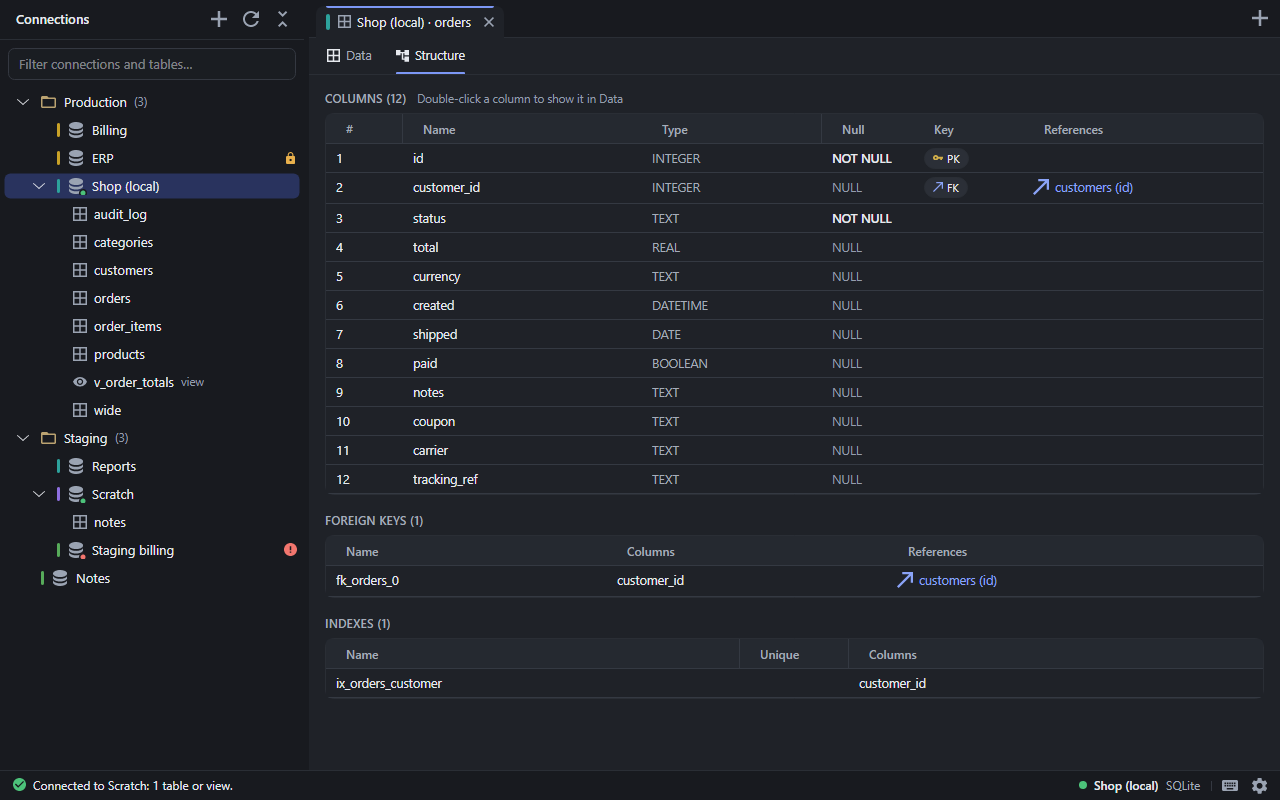
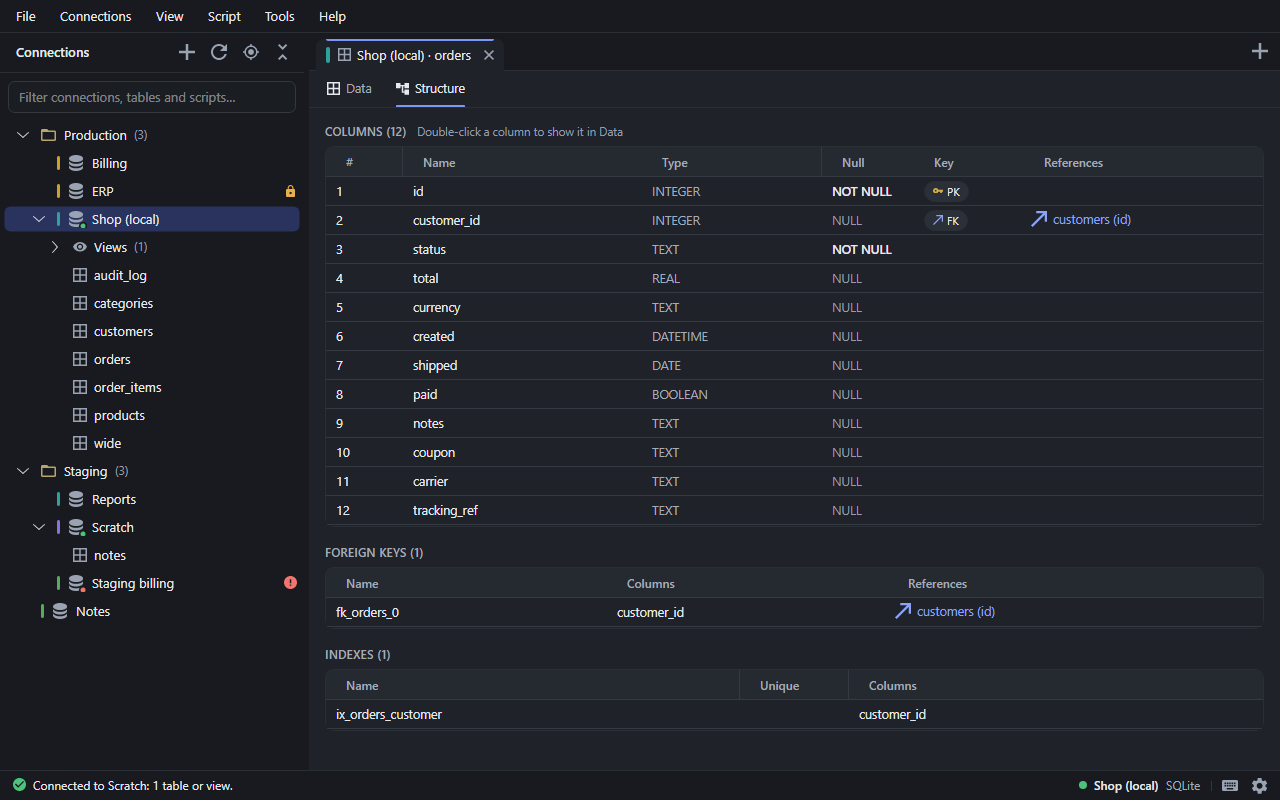
fix(structure): let each section of the Structure sub-tab scroll its own rows
Columns, foreign keys and indexes share the height, so no row is unreachable
on wide tables. A double click on a scroll bar or header no longer leaves the tab.

Claude-Session: https://claude.ai/code/session_01U9RH8tUaHeSWKXiegLs6DV

diff --git a/tests/DbExplorer.App.Tests/StructureScrollTests.cs b/tests/DbExplorer.App.Tests/StructureScrollTests.cs
@@ -1,0 +1,164 @@
+using Avalonia;
+using Avalonia.Controls;
+using Avalonia.Controls.Primitives;
+using Avalonia.Headless;
+using Avalonia.Headless.XUnit;
+using Avalonia.Input;
+using Avalonia.Layout;
+using Avalonia.Threading;
+using Avalonia.VisualTree;
+using DbExplorer.App.ViewModels;
+using DbExplorer.App.Views;
+using Microsoft.Data.Sqlite;
+
+namespace DbExplorer.App.Tests;
+
+/// <summary>The Structure sub-tab with hundreds of columns, foreign keys and indexes: every row reachable, no jump.</summary>
+public class StructureScrollTests : IDisposable
+{
+    private readonly TableTabFixture _t = new();
+    public void Dispose() => _t.Dispose();
+
+    private static async Task Pump(int rounds = 20)
+    {
+        for (var i = 0; i < rounds; i++)
+        {
+            Dispatcher.UIThread.RunJobs();
+            AvaloniaHeadlessPlatform.ForceRenderTimerTick();
+            await Task.Delay(15);
+        }
+    }
+
+    private async Task<(TableTabViewModel Tab, TabControl Tabs, Window Window, List<DataGrid> Grids, ScrollViewer Scroll)> Show(
+        int columns, int foreignKeys = 0, int indexes = 0, double height = 700)
+    {
+        var parts = Enumerable.Range(1, columns).Select(i => $"c{i} INTEGER" + (i <= foreignKeys ? " REFERENCES customers(id)" : ""));
+        var sql = $"CREATE TABLE wide ({string.Join(", ", parts)});"
+                  + string.Concat(Enumerable.Range(1, indexes).Select(i => $"CREATE INDEX ix_{i:000} ON wide(c{i});"));
+        using (var c = new SqliteConnection($"Data Source={_t.DbFile};Pooling=False"))
+        {
+            c.Open();
+            using var cmd = c.CreateCommand();
+            cmd.CommandText = sql;
+            cmd.ExecuteNonQuery();
+        }
+        var tab = await _t.OpenTab("wide");
+        var view = new TableTabView { DataContext = tab };
+        var window = new Window { Content = view, Width = 1000, Height = height };
+        window.Show();
+        var tabs = view.FindControl<TabControl>("SubTabs")!;
+        tabs.SelectedIndex = 1;
+        await Pump();
+        var grids = view.GetVisualDescendants().OfType<DataGrid>().Where(g => g.Classes.Contains("structure")).ToList();
+        return (tab, tabs, window, grids, view.FindControl<ScrollViewer>("StructureScroll")!);
+    }
+
+    // Rows actually on screen: recycled rows stay in the tree, hidden or outside the rows area.
+    private static List<T> OnScreen<T>(DataGrid grid)
+    {
+        var area = grid.GetVisualDescendants().OfType<DataGridRowsPresenter>().Single();
+        return grid.GetVisualDescendants().OfType<DataGridRow>()
+            .Where(r => r.IsVisible && r.Bounds.Bottom > 1 && r.Bounds.Top < area.Bounds.Height - 1)
+            .OrderBy(r => r.Bounds.Top).Select(r => (T)r.DataContext!).ToList();
+    }
+
+    private static async Task<List<T>> WheelToEnd<T>(Window window, DataGrid grid, int count)
+    {
+        var point = grid.TranslatePoint(new Point(200, grid.Bounds.Height / 2), window)!.Value;
+        var seen = new List<T>(OnScreen<T>(grid));
+        var previousTop = seen[0];
+        var all = seen.Distinct().ToList();
+        for (var i = 0; i < count; i++)
+        {
+            window.MouseWheel(point, new Vector(0, -1));
+            await Pump(2);
+            var now = OnScreen<T>(grid);
+            // No jump: what is on top after one notch was already on screen before it.
+            Assert.Contains(now[0], seen);
+            seen = now;
+            all.AddRange(now.Except(all));
+            if (all.Count == count) break;
+        }
+        return all;
+    }
+
+    [AvaloniaFact]
+    public async Task ManyColumns_TheWheelReachesEveryRow_WithoutJumping()
+    {
+        var (_, _, window, grids, scroll) = await Show(columns: 320);
+        var columns = grids[0];
+
+        Assert.True(columns.Bounds.Height < scroll.Viewport.Height, $"grid {columns.Bounds.Height}, viewport {scroll.Viewport.Height}");
+        Assert.Equal("c1", OnScreen<StructureColumn>(columns)[0].Name);
+        // The page itself does not scroll: the other sections stay on screen.
+        Assert.True(scroll.Extent.Height <= scroll.Viewport.Height + 1, $"extent {scroll.Extent.Height}, viewport {scroll.Viewport.Height}");
+
+        var seen = await WheelToEnd<StructureColumn>(window, columns, 320);
+
+        Assert.Equal(Enumerable.Range(1, 320).Select(i => $"c{i}"), seen.Select(c => c.Name));
+        window.Close();
+    }
+
+    [AvaloniaFact]
+    public async Task ManyForeignKeysAndIndexes_EachSectionScrollsItsOwnRows()
+    {
+        var (_, _, window, grids, scroll) = await Show(columns: 120, foreignKeys: 80, indexes: 90);
+
+        Assert.Equal(3, grids.Count);
+        Assert.True(scroll.Extent.Height <= scroll.Viewport.Height + 1);
+        Assert.All(grids, g => Assert.InRange(g.Bounds.Height, 80, scroll.Viewport.Height / 2));
+        Assert.Equal(80, (await WheelToEnd<StructureForeignKey>(window, grids[1], 80)).Count);
+        Assert.Equal(90, (await WheelToEnd<StructureIndex>(window, grids[2], 90)).Count);
+        window.Close();
+    }
+
+    [AvaloniaFact]
+    public async Task FewRows_TheGridsTakeOnlyWhatTheyNeed_AndTheColumnsGetTheRest()
+    {
+        var (_, _, window, grids, _) = await Show(columns: 200, foreignKeys: 1, indexes: 2);
+
+        Assert.InRange(grids[1].Bounds.Height, 40, 90);
+        Assert.InRange(grids[2].Bounds.Height, 60, 120);
+        Assert.True(grids[0].Bounds.Height > 300, $"grids {string.Join(" / ", grids.Select(g => g.Bounds.Height))}");
+        Assert.Equal(2, OnScreen<StructureIndex>(grids[2]).Count);
+        window.Close();
+    }
+
+    [AvaloniaFact]
+    public async Task ShortWindow_SectionsKeepAMinimumHeight_AndThePageScrolls()
+    {
+        var (_, _, window, grids, scroll) = await Show(columns: 50, foreignKeys: 20, indexes: 20, height: 320);
+
+        Assert.All(grids, g => Assert.True(g.Bounds.Height >= 80, $"grid {g.Bounds.Height}"));
+        Assert.True(scroll.Extent.Height > scroll.Viewport.Height);
+        window.Close();
+    }
+
+    [AvaloniaFact]
+    public async Task DoubleClick_JumpsToData_OnARowOnly()
+    {
+        var (_, tabs, window, grids, _) = await Show(columns: 100);
+        var grid = grids[0];
+        grid.SelectedIndex = 0;
+
+        void DoubleClick(Visual target)
+        {
+            var point = target.TranslatePoint(new Point(target.Bounds.Width / 2, target.Bounds.Height / 2), window)!.Value;
+            for (var i = 0; i < 2; i++)
+            {
+                window.MouseDown(point, MouseButton.Left);
+                window.MouseUp(point, MouseButton.Left);
+            }
+        }
+
+        DoubleClick(grid.GetVisualDescendants().OfType<ScrollBar>().Single(b => b.Orientation == Orientation.Vertical && b.IsVisible));
+        await Pump();
+        Assert.Equal(1, tabs.SelectedIndex);
+
+        DoubleClick(grid.GetVisualDescendants().OfType<DataGridRow>()
+            .Where(r => r.IsVisible && r.Bounds.Top >= 0).OrderBy(r => r.Bounds.Top).First());
+        await Pump();
+        Assert.Equal(0, tabs.SelectedIndex);
+        window.Close();
+    }
+}

diff --git a/src/DbExplorer.App/Views/SharedHeightPanel.cs b/src/DbExplorer.App/Views/SharedHeightPanel.cs
@@ -1,0 +1,79 @@
+using Avalonia;
+using Avalonia.Controls;
+
+namespace DbExplorer.App.Views;
+
+/// <summary>
+/// Stacks sections inside a given height: a section that needs less than its share gets what it asks for, the others share
+/// the rest. Each child is measured with a finite height, so a data grid in it scrolls and virtualizes its own rows. A plain
+/// StackPanel measures with an infinite height, which a DataGrid cannot work with: rows become unreachable and the scroll jumps.
+/// </summary>
+public sealed class SharedHeightPanel : Panel
+{
+    public static readonly StyledProperty<double> FitHeightProperty =
+        AvaloniaProperty.Register<SharedHeightPanel, double>(nameof(FitHeight));
+
+    public static readonly StyledProperty<double> MinShareProperty =
+        AvaloniaProperty.Register<SharedHeightPanel, double>(nameof(MinShare), 130);
+
+    public static readonly StyledProperty<double> SpacingProperty =
+        AvaloniaProperty.Register<SharedHeightPanel, double>(nameof(Spacing));
+
+    static SharedHeightPanel() => AffectsMeasure<SharedHeightPanel>(FitHeightProperty, MinShareProperty, SpacingProperty);
+
+    /// <summary>The height to share, usually the viewport of the surrounding ScrollViewer (which offers an infinite one).</summary>
+    public double FitHeight { get => GetValue(FitHeightProperty); set => SetValue(FitHeightProperty, value); }
+
+    /// <summary>No section is squeezed below this: in a very short window the panel grows and the ScrollViewer around it scrolls.</summary>
+    public double MinShare { get => GetValue(MinShareProperty); set => SetValue(MinShareProperty, value); }
+
+    public double Spacing { get => GetValue(SpacingProperty); set => SetValue(SpacingProperty, value); }
+
+    private readonly Dictionary<Control, double> _heights = [];
+
+    protected override Size MeasureOverride(Size availableSize)
+    {
+        _heights.Clear();
+        var shown = Children.Where(c => c.IsVisible).ToList();
+        if (shown.Count == 0) return default;
+        var gaps = Spacing * (shown.Count - 1);
+        var budget = Math.Max(MinShare, FitHeight - Margin.Top - Margin.Bottom - gaps);
+
+        // What each section would take if it had the whole height to itself.
+        foreach (var child in shown)
+        {
+            child.Measure(new Size(availableSize.Width, budget));
+            _heights[child] = child.DesiredSize.Height;
+        }
+
+        // Smallest first: what it leaves of its share goes to the larger ones.
+        var left = shown.Count;
+        foreach (var child in shown.OrderBy(c => _heights[c]))
+        {
+            var share = Math.Max(MinShare, budget / left--);
+            if (_heights[child] > share) _heights[child] = share;
+            budget = Math.Max(0, budget - _heights[child]);
+        }
+
+        double width = 0;
+        foreach (var child in shown)
+        {
+            child.Measure(new Size(availableSize.Width, _heights[child]));
+            width = Math.Max(width, child.DesiredSize.Width);
+        }
+        return new Size(width, gaps + _heights.Values.Sum());
+    }
+
+    protected override Size ArrangeOverride(Size finalSize)
+    {
+        var y = 0.0;
+        foreach (var child in Children.Where(c => c.IsVisible))
+        {
+            // The allotted height, not the desired one: a data grid asks for a few pixels more or less as it scrolls.
+            var height = _heights.GetValueOrDefault(child, child.DesiredSize.Height);
+            child.Arrange(new Rect(0, y, finalSize.Width, height));
+            y += height + Spacing;
+        }
+        return finalSize;
+    }
+}

diff --git a/tools/UiShots/Program.cs b/tools/UiShots/Program.cs
@@ -324,6 +324,7 @@ internal static partial class Scenes
         ("main-table", MainTable),
         ("table-edit", TableEdit),
         ("table-structure", TableStructure),
+        ("table-structure-wide", TableStructureWide),
         ("grid-selection", GridSelectionScene),
         ("export-dialog", d => ExportDialogScene(d, DbExplorer.Core.Export.ExportKind.Csv)),
         ("export-dialog-sql", d => ExportDialogScene(d, DbExplorer.Core.Export.ExportKind.SqlInsert)),
@@ -509,6 +510,25 @@ internal static partial class Scenes
         await Open(d);
         await OpenTable(d, "orders");
         d.Window.GetVisualDescendants().OfType<TabControl>().First(t => t.Name == "SubTabs").SelectedIndex = 1;
+        await Settle();
+        return null;
+    }
+
+    // 320 columns, 24 foreign keys and 30 indexes: every section of the Structure sub-tab scrolls inside its share.
+    private static async Task<Window?> TableStructureWide(Demo d)
+    {
+        var columns = Enumerable.Range(1, 320).Select(i =>
+            $"attribute_{i:000} {(i % 3 == 0 ? "INTEGER" : "TEXT")}" + (i % 3 == 0 && i <= 72 ? " REFERENCES customers(id)" : ""));
+        Demo.Exec(d.Shop.Database,
+            $"CREATE TABLE wide_facts ({string.Join(", ", columns)}); INSERT INTO wide_facts (attribute_001) VALUES ('x');"
+            + string.Concat(Enumerable.Range(1, 30).Select(i => $"CREATE INDEX ix_wide_{i:00} ON wide_facts(attribute_{i:000});")));
+        await Open(d);
+        await OpenTable(d, "wide_facts");
+        d.Window.GetVisualDescendants().OfType<TabControl>().First(t => t.Name == "SubTabs").SelectedIndex = 1;
+        await Settle();
+        // Scrolled to the middle of the columns, as a user would after a few notches.
+        var grid = d.Window.GetVisualDescendants().OfType<DataGrid>().First(g => g.Classes.Contains("structure"));
+        grid.ScrollIntoView(((System.Collections.IList)grid.ItemsSource)[160], null);
         await Settle();
         return null;
     }

diff --git a/src/DbExplorer.App/Views/ContentHeightDataGrid.cs b/src/DbExplorer.App/Views/ContentHeightDataGrid.cs
@@ -1,0 +1,27 @@
+using Avalonia;
+using Avalonia.Controls;
+
+namespace DbExplorer.App.Views;
+
+/// <summary>
+/// A read-only grid that asks for exactly the height of its content, up to what it is offered. The stock DataGrid asks for the
+/// height of the rows it happens to display, which lags behind the space offered, so a container cannot size it from that.
+/// Needs a fixed RowHeight and ColumnHeaderHeight.
+/// </summary>
+public sealed class ContentHeightDataGrid : DataGrid
+{
+    // Each row is followed by its 1 px horizontal grid line.
+    private const double GridLine = 1;
+
+    protected override Type StyleKeyOverride => typeof(DataGrid);
+
+    protected override Size MeasureOverride(Size availableSize)
+    {
+        var rows = ItemsSource is System.Collections.ICollection items ? items.Count : 0;
+        var content = ColumnHeaderHeight + GridLine + rows * (RowHeight + GridLine);
+        if (double.IsNaN(content)) return base.MeasureOverride(availableSize);
+        var height = Math.Min(content, availableSize.Height);
+        var size = base.MeasureOverride(availableSize.WithHeight(height));
+        return size.WithHeight(height);
+    }
+}

diff --git a/src/DbExplorer.App/Views/TableTabView.axaml.cs b/src/DbExplorer.App/Views/TableTabView.axaml.cs
@@ -1,3 +1,5 @@
+using Avalonia;
+using Avalonia.VisualTree;
 using System.ComponentModel;
 using Avalonia.Controls;
 using Avalonia.Input;
@@ -121,7 +123,8 @@ public partial class TableTabView : UserControl
     // Double-click a column of the Structure sub-tab: show it in the Data sub-tab (scrolls to it and lights it, like Ctrl+L).
     private void OnStructureColumnDoubleTapped(object? sender, TappedEventArgs e)
     {
-        if (sender is DataGrid { SelectedItem: StructureColumn column }) column.Jump();
+        // Only a row counts: two quick clicks on the grid's scroll bar or header must not leave the sub-tab.
+        if ((e.Source as Visual)?.FindAncestorOfType<DataGridRow>(includeSelf: true)?.DataContext is StructureColumn column) column.Jump();
     }
 
     // The tab control recreates this view when the tab is selected again: always follow the current view-model.

diff --git a/docs/ui/README.md b/docs/ui/README.md
@@ -171,6 +171,9 @@ current-cell frame: 2 px accent, inside the cell).
   The grid header is a name band (type-aware, sort in accent, context menu) over a lighter filter band with typed hints. Edited
   cells are bold with a "Was: …" tooltip; empty cells of a new row say `DEFAULT`. `Ctrl+C` / `Ctrl+Shift+C` copy, `Delete`, `Insert`,
   `Alt+Enter` opens the value viewer (full text, JSON indented, hex for binary).
+- **Structure sub-tab**: columns, foreign keys and indexes share the height (`SharedHeightPanel`): a short section takes
+  what it needs, the long ones split the rest and scroll their own rows (`ContentHeightDataGrid`). Never give a `DataGrid`
+  an unbounded height (inside a `StackPanel` or a `ScrollViewer`): rows become unreachable and the scroll jumps.
 - **Copy and export** (both grids, [docs/export.md](../export.md)): drag, `Alt+click` or `Shift+arrows` select a rectangle,
   `Ctrl+click` on a header or `Ctrl+Space` whole columns (cells lit like selected rows). The cell menu starts with Copy, Copy with
   headers, Advanced copy, "Copy as", Export and Select column. `ExportDialog` and `AdvancedCopyDialog` have the options on the
@@ -230,7 +233,7 @@ dotnet run --project tools/UiShots -- <outDir> [scene,scene...|all] [light|dark]
 dotnet run --project tools/UiShots -- --scroll 3        # scroll benchmark of a 200 x 20 grid, prints ms per frame
 ```
 
-Scenes: `er-diagram`, `er-diagram-focus`, `er-diagram-hover`, `er-diagram-large`, `er-diagram-export`, `empty`, `main-table`, `table-edit`, `table-structure`, `script`, `script-error`, `quick-open`, `connection-dialog`,
+Scenes: `er-diagram`, `er-diagram-focus`, `er-diagram-hover`, `er-diagram-large`, `er-diagram-export`, `empty`, `main-table`, `table-edit`, `table-structure`, `table-structure-wide`, `script`, `script-error`, `quick-open`, `connection-dialog`,
 `sql-preview`, `virtual-key`, `history` (the Query history window), `search`, `search-data`, `format-sql`, `confirm-dialog`, `live-theme-switch` (flips the theme while the window shows),
 `main-table-125` (1024x640 DIP, the 1280x800 window at 125 percent scaling), the Settings dialog (`settings-appearance`,
 `settings-editor`, `settings-results`, `settings-history`, `settings-format`, `settings-shortcuts`, `settings-upgrade`, `settings-search`, `settings-appearance-125`),
